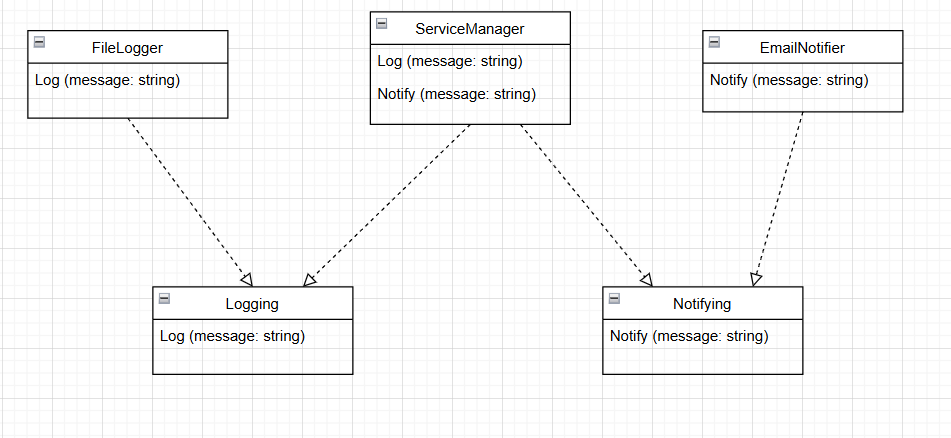
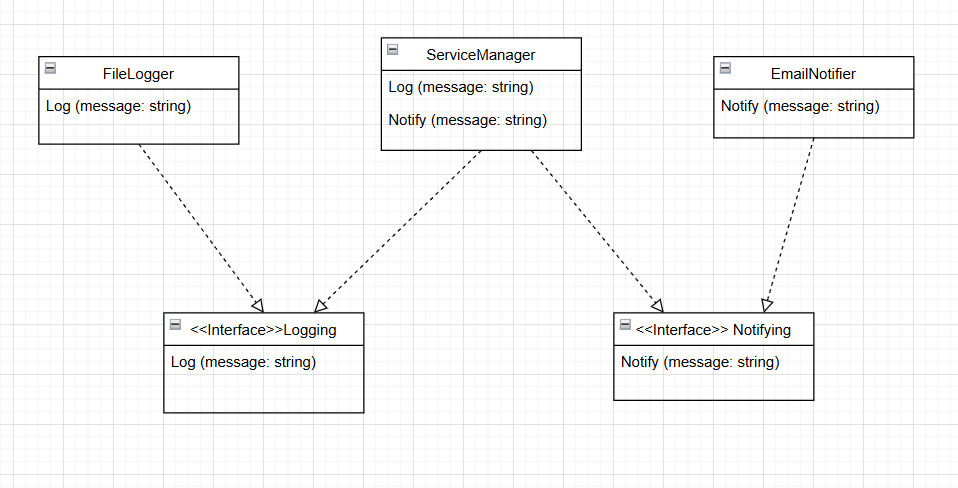
baitap3

diff --git a/59_2251172525_TranDucToan_BaiTap3/BaiTap3.java b/59_2251172525_TranDucToan_BaiTap3/BaiTap3.java
@@ -1,0 +1,97 @@
+/*
+ * Click nbfs://nbhost/SystemFileSystem/Templates/Licenses/license-default.txt to change this license
+ * Click nbfs://nbhost/SystemFileSystem/Templates/Classes/Class.java to edit this template
+ */
+
+
+
+interface ILogging {
+    void log(String message);
+}
+
+interface INotifying {
+    void notify(String message);
+}
+
+class FileLogger implements ILogging {
+    @Override
+    public void log(String message) {
+        System.out.println("Ghi log: " + message);
+    }
+}
+
+class EmailNotifier implements INotifying {
+    @Override
+    public void notify(String message) {
+        System.out.println("Gui thong bao email: " + message);
+    }
+}
+
+class ServiceManager implements ILogging, INotifying {
+    @Override
+    public void log(String message) {
+        System.out.println("Service log: " + message);
+    }
+
+    @Override
+    public void notify(String message) {
+        System.out.println("Service notify: " + message);
+    }
+}
+
+abstract class LoggerFactory {
+    public abstract ILogging createLogger();
+}
+
+abstract class NotifierFactory {
+    public abstract INotifying createNotifier();
+}
+
+class FileLoggerFactory extends LoggerFactory {
+    @Override
+    public ILogging createLogger() {
+        return new FileLogger();
+    }
+}
+
+class ServiceLoggerFactory extends LoggerFactory {
+    @Override
+    public ILogging createLogger() {
+        return new ServiceManager();
+    }
+}
+
+class EmailNotifierFactory extends NotifierFactory {
+    @Override
+    public INotifying createNotifier() {
+        return new EmailNotifier();
+    }
+}
+
+class ServiceNotifierFactory extends NotifierFactory {
+    @Override
+    public INotifying createNotifier() {
+        return new ServiceManager();
+    }
+}
+
+public class BaiTap3 {
+    public static void main(String[] args) {
+        LoggerFactory loggerFactory = new FileLoggerFactory();
+        ILogging logger = loggerFactory.createLogger();
+        logger.log("Day la thong bao log");
+
+        NotifierFactory notifierFactory = new EmailNotifierFactory();
+        INotifying notifier = notifierFactory.createNotifier();
+        notifier.notify("Day la thong bao notify");
+
+        LoggerFactory serviceLoggerFactory = new ServiceLoggerFactory();
+        ILogging serviceLogger = serviceLoggerFactory.createLogger();
+        serviceLogger.log("Log tu ServiceManager");
+
+        NotifierFactory serviceNotifierFactory = new ServiceNotifierFactory();
+        INotifying serviceNotifier = serviceNotifierFactory.createNotifier();
+        serviceNotifier.notify("Notify tu ServiceManager");
+    }
+}
+
